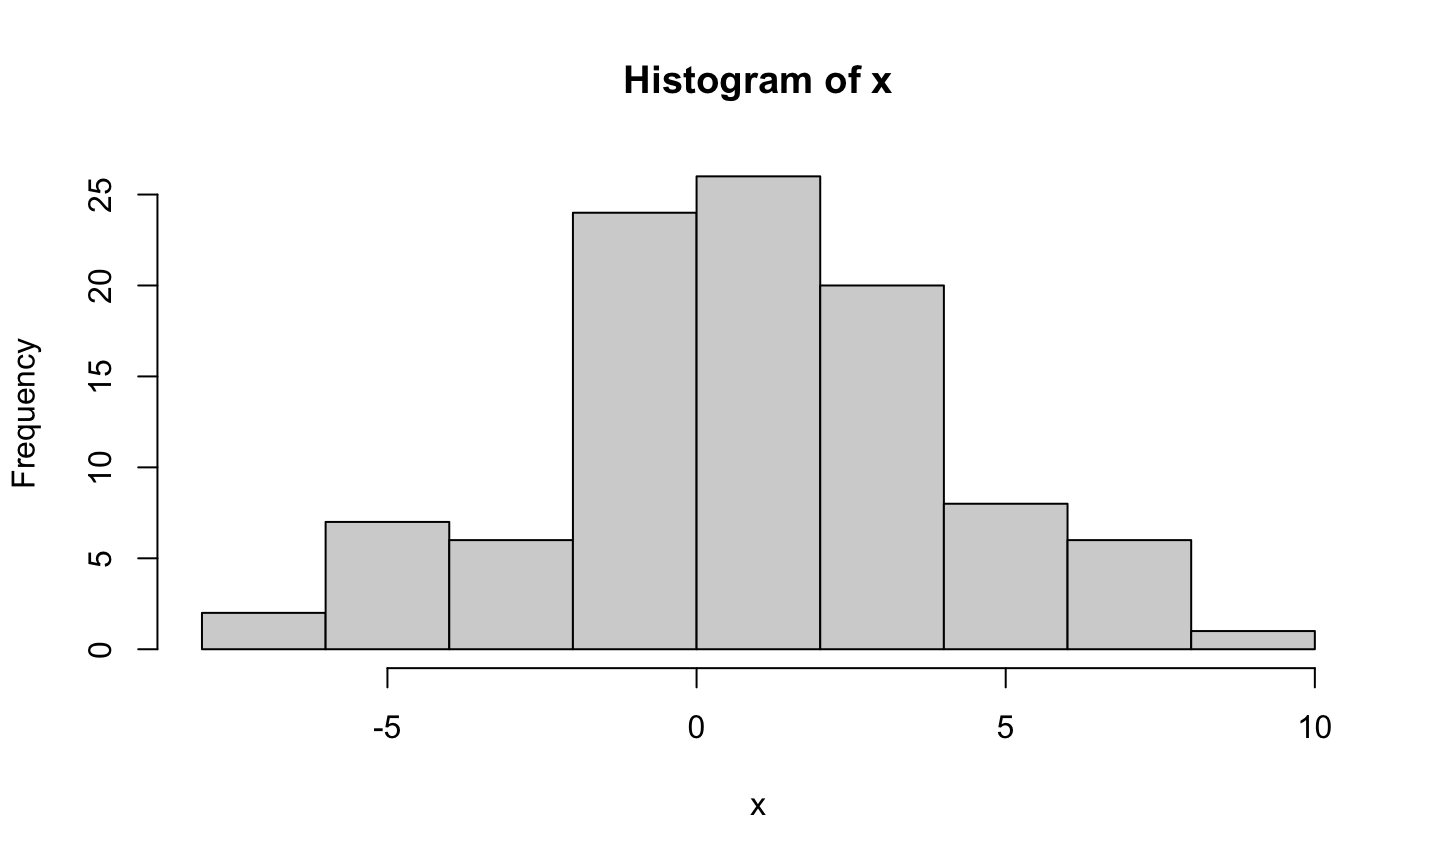
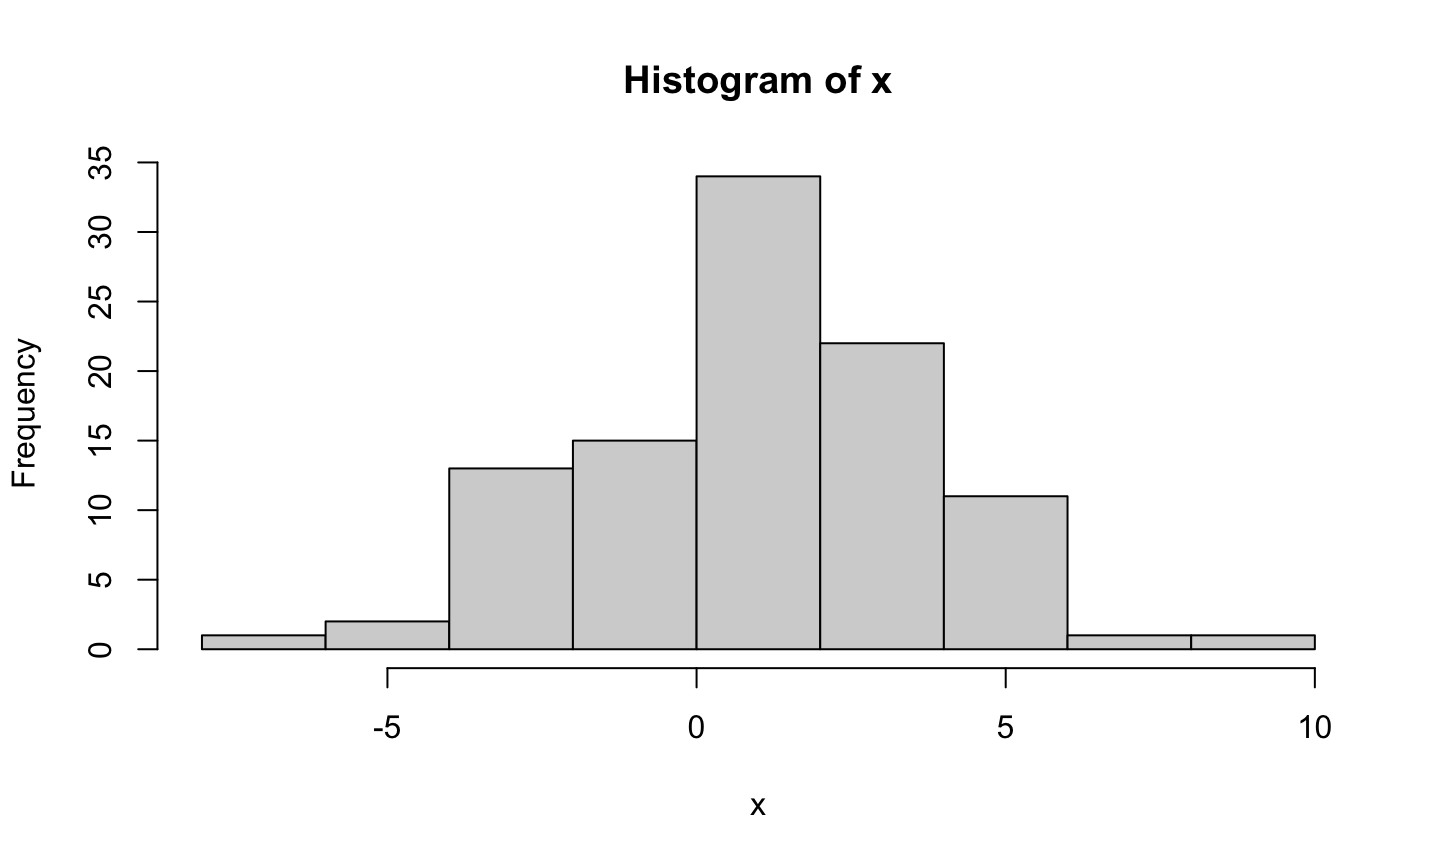
update

diff --git a/TD_Introduction_R_RStudio.html b/TD_Introduction_R_RStudio.html
@@ -616,214 +616,6 @@ class="uri">https://github.com/rstudio/cheatsheets/blob/main/rstudio-ide.pdf</a>
 href="https://github.com/rstudio/cheatsheets/tree/main"
 class="uri">https://github.com/rstudio/cheatsheets/tree/main</a></p></li>
 </ul>
-<pre class="r"><code>################################################################
-#######  Correction TD Partie 3: Manipulation d&#39;objets
-###############################################################@
-
-
-# Exercice 1 - Extraction d&#39;éléments
-# ----------------------------------
-
-gl &lt;- c(&quot;ALK&quot;, &quot;HRAS&quot;, &quot;BRAD&quot;, &quot;AKT1&quot;, &quot;EGFR&quot;)
-
-# 1 
-
-length(gl)
-
-# 2
-gl[1:3]
-
-# 3
-
-gl2 &lt;- c(gl[2], gl[5])
-
-# ou
-
-gl2 &lt;- gl[c(2,5)]
-
-# 4
-
-sort(gl)
-
-# 5 
-
-gl2 &lt;- c(gl2, &quot;PIK3CA&quot;, &quot;KIT&quot;)
-
-
-
-
-
-# Exercice 2: Facteurs
-# ---------------------
-
-cell_type &lt;- factor(c(&quot;C1&quot;,&quot;C2&quot;,&quot;C2&quot;,&quot;C2&quot;,&quot;C1&quot;,&quot;C2&quot;,&quot;C2&quot;,&quot;C1&quot;))
-
-# 1
-
-levels(cell_type)
-
-# 2
-
-length(which(cell_type==&quot;C1&quot;))
-
-length(which(cell_type==&quot;C2&quot;))
-
-# 3
-
-table(cell_type)
-
-# Exercice 3: Chaines de caractères
-# ---------------------------------
-
-# 1
-
-paste(&quot;chr&quot;, 1, sep=&quot;&quot;)
-
-# 2
-
-chrs &lt;- paste(&quot;chr&quot;, c(seq(1, 22), &quot;X&quot;, &quot;Y&quot;), sep=&quot;&quot;)
-
-# 3
-
-chrsj &lt;- paste(chrs, collapse = &#39; &#39;)
-
-# 4
-
-chrs2 &lt;- unlist(strsplit(chrsj, &quot; &quot;))
-
-identical(chrs2, chrs)
-
-
-# Exercice 4: Tableau de données
-# ----------------------------
-
-# 1
-
-a &lt;- rnorm(10, mean = 0, sd = 1)
-
-b &lt;- rep(1, 10)
-
-x &lt;- list(a=a, b=b)
-
-x$a
-
-# 2
-
-y &lt;- data.frame(x)
-
-# 3
-
-z1 &lt;- y[1:3,]
-z2 &lt;- y[8:10,]
-
-class(z1)
-class(z2)
-
-# 4
-
-num &lt;- seq(1:26)
-
-x$num = num
-
-# 5
-y &lt;- data.frame(x)
-# Impossible: nombre de lignes différents</code></pre>
-<pre class="bash"><code>##########################################################@##############
-# Correction TD Partie 4 : Etude de données génomiques
-#########################################################################
-
-# Exercice 1: Chargement des données 
-# 1 
-# Dans bash:
-
-gunzip gencode.v38.ENSEMBL.annotation.gtf.gz
-</code></pre>
-<pre class="r"><code># Dans R:
-human.gene.annot &lt;- read.delim(&quot;gencode.v38.ENSEMBL.annotation.gtf&quot;, comment.char=&quot;#&quot;)
-
-names(human.gene.annot) = c(&quot;chromosome name&quot;, &quot;annotation source&quot;, &quot;feature type&quot;, &quot;genomic start location&quot;, &quot;genomic end location&quot;, &quot;score(not used)&quot;, &quot;genomic strand&quot;, &quot;genomic phase (for CDS features)&quot;, &quot;additional information as key-value pairs&quot;)
-# 2
-dim(human.gene.annot)
-
-# 3
-head(human.gene.annot)
-tail(human.gene.annot)
-View(human.gene.annot)
-
-# Exercice 2: Sélection d&#39;un sous-ensemble de données
-
-# 1
-human.gene.annot[12,]
-
-# 2
-human.gene.annot[100:105,]
-
-# 3
-unique(human.gene.annot[,3])
-
-
-# Exercice 3: selection d&#39;un sous ensemble basé sur les valeurs du tableau
-
-# 1
-
-nrow(human.gene.annot[human.gene.annot$`feature type`==&quot;gene&quot;, ])
-
-# ou
-
-nrow(subset(human.gene.annot, `feature type` == &quot;gene&quot;))
-
-# 2
-
-table(human.gene.annot$`feature type`)
-
-# 3
-
-table(human.gene.annot$`chromosome name`)
-
-# 4
-
-table(human.gene.annot$`chromosome name`, human.gene.annot$`feature type`)
-
-# ou
-
-feature.count.table &lt;- table(human.gene.annot[, c(&quot;chromosome name&quot;, &quot;feature type&quot;)])
-feature.count.table
-
-# conversion table vers dataframe
-
-feature.count.matrix &lt;- (apply(as.matrix(feature.count.table), 2 , as.numeric))
-rownames(feature.count.matrix) &lt;- rownames(feature.count.table)
-
-
-# Exercice 4: Manipulation d&#39;un tableau
-
-# 1
-
-length = human.gene.annot$`genomic end location` - human.gene.annot$`genomic start location`
-summary(length)
-
-human.gene.annot$length = length
-
-View(human.gene.annot)
-
-# Exercice: Plot
-
-#1
-
-human.gene.annot.genefeature &lt;- subset(human.gene.annot, `feature type` == &quot;gene&quot;)
-
-hist(log10(human.gene.annot.genefeature$length), breaks = 100)
-
-
-# 2
-
-barplot(table(human.gene.annot.genefeature$`chromosome name`))
-
-# Exercice: Paramètres descriptifs
-
-# 1 
-
-summary(human.gene.annot.genefeature$length)</code></pre>
 <p><br> <br> <br> <br></p>
 <hr />
 <p>Ce TD est librement inspiré de la formation R proposée par Justine

diff --git a/Introduction_R_RStudio.html b/Introduction_R_RStudio.html
@@ -974,8 +974,8 @@ x[,3, drop = FALSE]</pre>
 x [x&gt;=1] &lt;- 20
 x</pre>
 
-<pre >##  [1] -0.8650658 20.0000000 20.0000000 20.0000000 20.0000000  0.4935994
-##  [7] 20.0000000 20.0000000 -0.3544822 20.0000000</pre>
+<pre >##  [1]  0.6618623 -0.7767186  0.1068835  0.2549804 -1.8083565 20.0000000
+##  [7] -5.0536106 -3.6116710 -1.0362437 20.0000000</pre>
 
 <p>Accéder aux valeurs d’une liste: double crochets</p>
 
@@ -1041,14 +1041,14 @@ df</pre>
 
 <pre class = 'prettyprint lang-r'>sort(x)</pre>
 
-<pre >##  [1] -2.904357 -1.823418  1.093990  1.254394  1.722320  2.025361  3.339458
-##  [8]  4.066004  4.814644  7.199752</pre>
+<pre >##  [1] -5.4197527 -3.6934435 -1.8512171  0.7698406  0.7798986  2.0686666
+##  [7]  3.4708937  4.6060400  5.4538198  6.1009612</pre>
 
 <p>Rang</p>
 
 <pre class = 'prettyprint lang-r'>rank(x)</pre>
 
-<pre >##  [1]  9  1 10  2  6  5  7  8  3  4</pre>
+<pre >##  [1]  2 10  4  7  5  8  1  6  3  9</pre>
 
 </article></slide><slide class=""><hgroup><h2>Calcul sur les vecteurs</h2></hgroup><article  id="calcul-sur-les-vecteurs-1" class="smaller ">
 
@@ -1057,17 +1057,17 @@ df</pre>
 
 <pre class = 'prettyprint lang-r'>mean(x)</pre>
 
-<pre >## [1] 2.078815</pre>
+<pre >## [1] 1.228571</pre>
 
 <pre class = 'prettyprint lang-r'>var(x)</pre>
 
-<pre >## [1] 9.009536</pre>
+<pre >## [1] 15.22858</pre>
 
 <p>Extraction de valeurs sur test</p>
 
 <pre class = 'prettyprint lang-r'>which(x&gt;3)</pre>
 
-<pre >## [1] 1 3 7 8</pre>
+<pre >## [1]  2  4  6 10</pre>
 
 <p>Comparaison</p>
 
@@ -1403,12 +1403,12 @@ hist(x)</pre>
 ## [36 != 6 x 3]</pre>
 
 <pre >##          Series 1 Series 2 Series 3
-## Jan 1961        3        2        4
-## Feb 1961        3        6        4
-## Mar 1961        5        5       11
-## Apr 1961        5        4        5
-## May 1961        6        5        9
-## Jun 1961        5        8        6</pre>
+## Jan 1961        9        7        3
+## Feb 1961        3        5        5
+## Mar 1961        4        5        6
+## Apr 1961        3        4        2
+## May 1961        5        3        3
+## Jun 1961        6        7        4</pre>
 
 </article></slide><slide class=""><hgroup><h2>Créer des objets: Expression</h2></hgroup><article  id="créer-des-objets-expression" class="smaller ">
 
